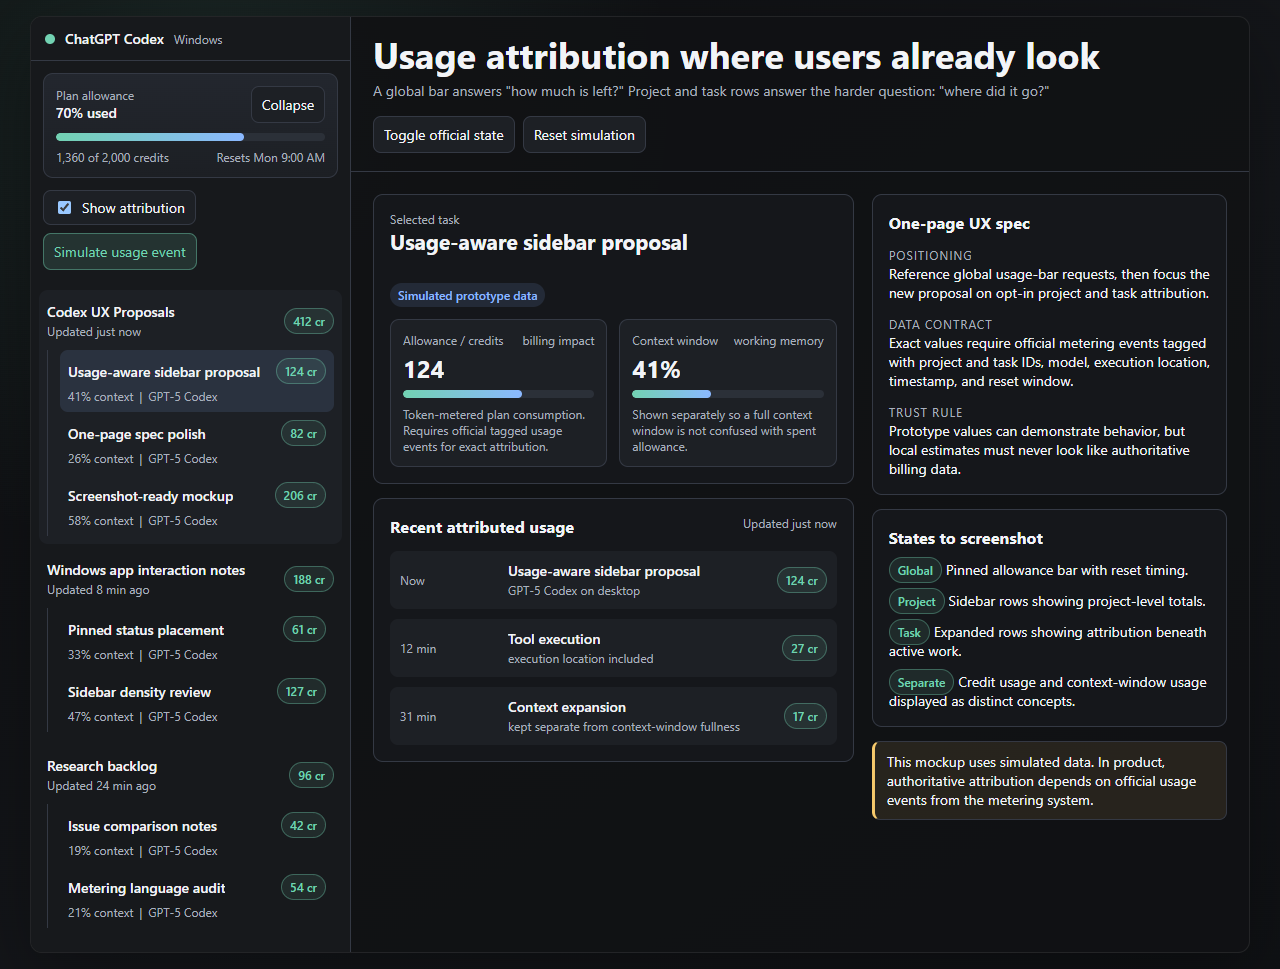
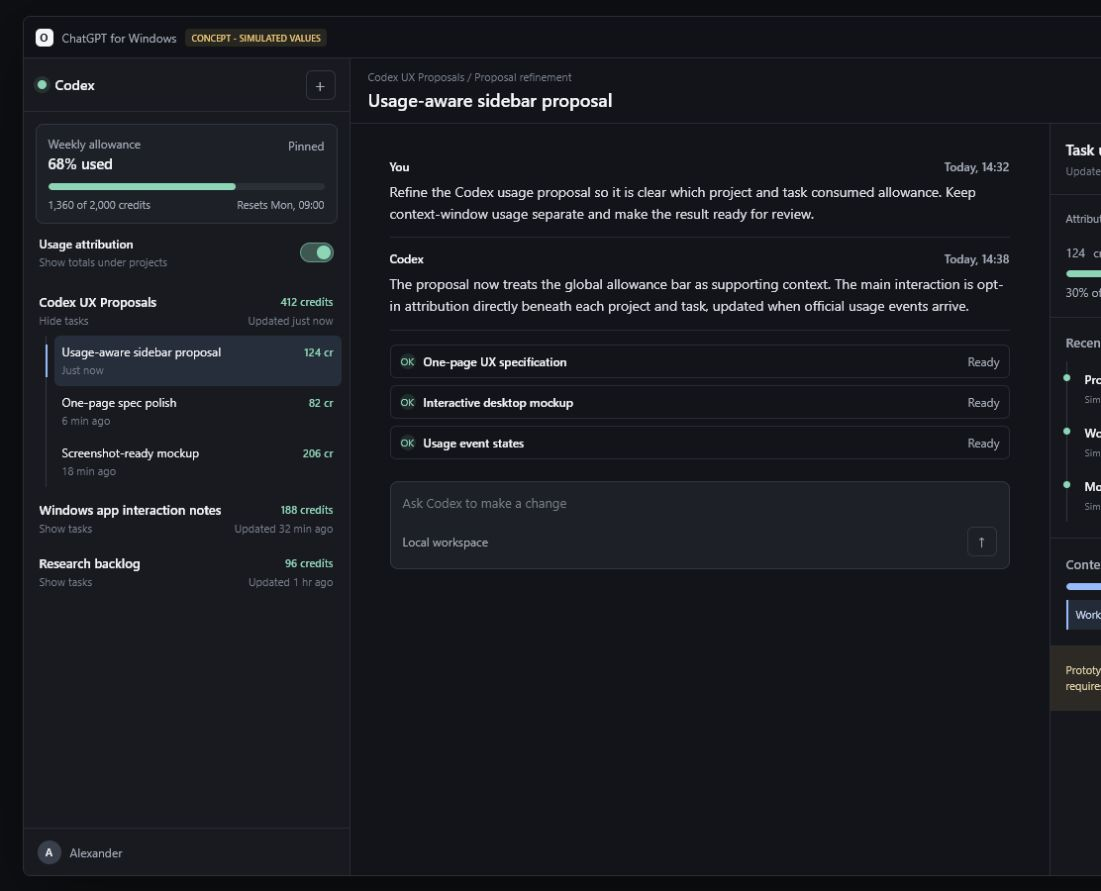
Add final proposal captures and publication links

diff --git a/github-issue-draft.md b/github-issue-draft.md
@@ -2,8 +2,6 @@
 
 **Title:** Codex Desktop: opt-in usage attribution by project and task
 
-> Publication status: local draft for Alexander's review. Links and images must be inserted after explicit publication approval.
-
 ## Feature Request
 
 ### Summary
@@ -44,22 +42,15 @@ This request does not duplicate the global indicator. Its focus is attribution w
 
 ### Prototype
 
-- Interactive prototype: `[insert repository or hosted prototype link after approval]`
-- UX specification: `[insert specification link after approval]`
-- Normal attributed view: `[attach image after approval]`
-- Incoming provisional event: `[attach image after approval]`
+- [Interactive prototype](https://h4xofficial.github.io/codex-usage-attribution-proposal/)
+- [One-page UX specification](https://github.com/H4XOFFICIAL/codex-usage-attribution-proposal/blob/main/usage-visibility-spec.md)
+
+Normal attributed view:
+
+![Normal attributed view](https://raw.githubusercontent.com/H4XOFFICIAL/codex-usage-attribution-proposal/main/usage-visibility-mockup.png)
+
+Incoming provisional event:
+
+![Incoming provisional event](https://raw.githubusercontent.com/H4XOFFICIAL/codex-usage-attribution-proposal/main/usage-visibility-provisional-event.png)
 
 All prototype values are simulated and visibly labeled.
-
----
-
-## Review Checklist - Not Part of the Published Issue
-
-- [ ] Alexander approves the title and issue body.
-- [ ] Final normal-state screenshot replaces the initial concept capture.
-- [ ] Final provisional-event screenshot is attached.
-- [ ] Repository links are public and contain no private paths or account data.
-- [ ] The interactive mockup opens without a build step.
-- [ ] No claim implies that local estimates are authoritative.
-- [ ] Publication destination is confirmed as `openai/codex`.
-- [ ] Alexander explicitly approves publication immediately before posting.

diff --git a/README.md b/README.md
@@ -15,10 +15,11 @@ The global bar complements [openai/codex#24182](https://github.com/openai/codex/
 
 ## Review Package
 
-- [Interactive mockup](index.html)
+- [Live interactive mockup](https://h4xofficial.github.io/codex-usage-attribution-proposal/)
 - [One-page UX specification](usage-visibility-spec.md)
 - [GitHub issue draft](github-issue-draft.md)
-- `usage-visibility-mockup.png`: initial attributed-view capture retained for comparison
+- `usage-visibility-mockup.png`: normal attributed view
+- `usage-visibility-provisional-event.png`: incoming provisional event
 
 Open `index.html` directly in a browser. The controls switch between simulated, provisional, and reconciled-event states; receive a deterministic tagged event; reset the state; hide attribution; and collapse the global bar.
 
@@ -36,4 +37,4 @@ This is a frontend interaction prototype, not a billing estimator. Exact attribu
 
 ## Status
 
-Ready for Alexander's review. Do not publish, upload, comment, or submit externally without explicit approval.
+The proposal repository and interactive prototype are public. Publication to `openai/codex` was explicitly approved by Alexander on July 15, 2026.